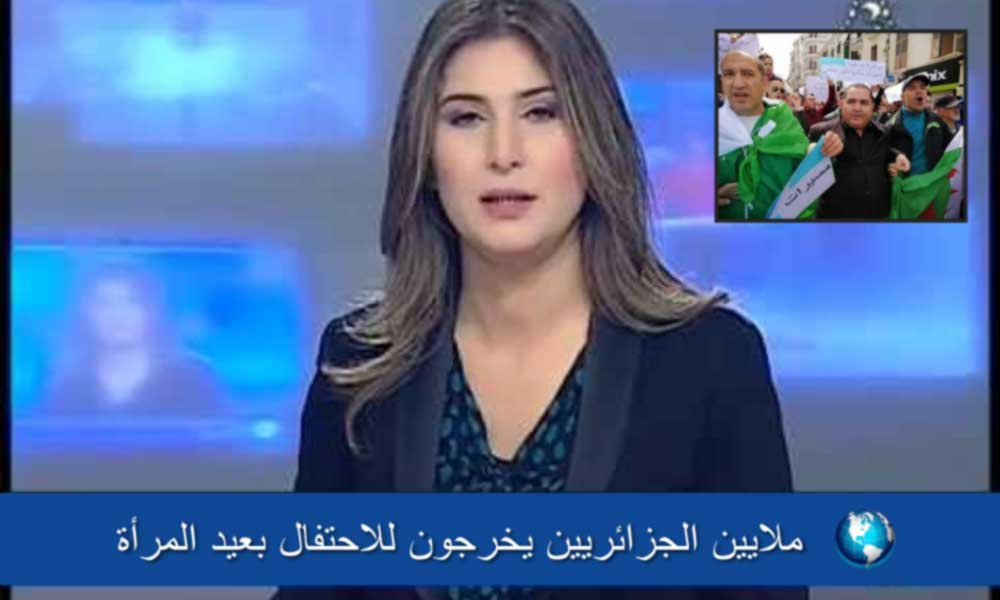
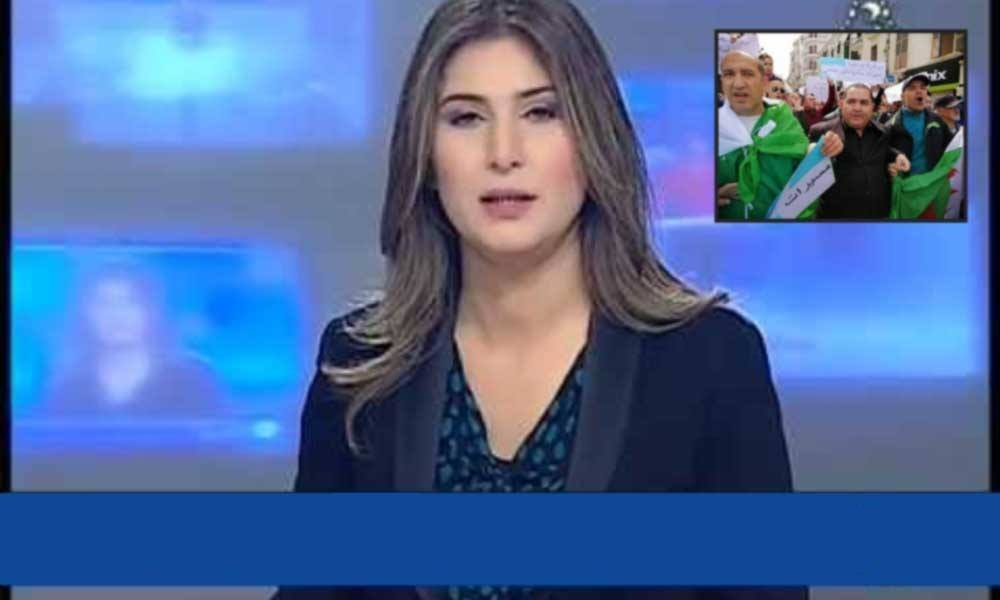
change pic

Changed region(s): [[0.093, 0.87, 0.806, 0.96], [0.837, 0.84, 0.899, 0.96]]

diff --git a/js/main.js b/js/main.js
@@ -13,11 +13,11 @@
             padding: 0,
             position: 'absolute',
             top: 0,
-            direction: 'rtl',
+            direction: 'ltr',
             left: 0,
             background: 'none',
             color: '#ffffff',
-            'font-size': '24px',
+            'font-size': '28px',
             padding: '2px',
             height: '24px',
             width: '20px',
@@ -44,7 +44,7 @@
             pos = getPos(this);
             textLeft = pos[0] - imgPos[0];
             textTop = pos[1] - imgPos[1];
-            data.push({ 'text': this.val(), 'left': textLeft, 'top': textTop });
+            data.push({ 'text': this.val(), 'left': 691, 'top': 588  });
           });
           return data;
         }
@@ -78,7 +78,7 @@
             var textArea = $('<textarea></textarea>');
             textArea.css(text_css);
             position = mouseAbs(e);
-            textArea.css({'left': position[0], 'top': position[1]});
+            textArea.css({'left': 550, 'top': 720});
             $(this).after(textArea);        
             $(textArea).bind('keydown', resizeTextArea);
             $(textArea).on('paste', function(e) {

diff --git a/index.html b/index.html
@@ -23,12 +23,13 @@
 	  });
 
 	</script>
+	<link href="https://fonts.googleapis.com/css?family=Pacifico" rel="stylesheet">
 	<link rel="stylesheet" href="css/style.css" type="text/css" />
 
 </head>
 <body>
-	
-	<div class="container" style="margin-top:150px;">
+	<div class="container" >
+	<H1>pranks - alert</H1>
 		<div class="row">
 			<div class="span11">
 				<div class="demo-box" id="capture" style="  width: 1000px; ">

diff --git a/css/style.css b/css/style.css
@@ -4,7 +4,13 @@ body {
   width: 50%;
   padding: 10px;
 }
-
+h1 { color: #000000; font-family: 'Pacifico', cursive;
+ font-size: 130px; font-weight: normal;
+  line-height: 48px; margin: 0 0 50px;
+   text-align: center; 
+   text-shadow: 1px 1px 2px #082b34; 
+   padding: 50Px;
+ }
 strong {
   font-weight: bold;
 }
